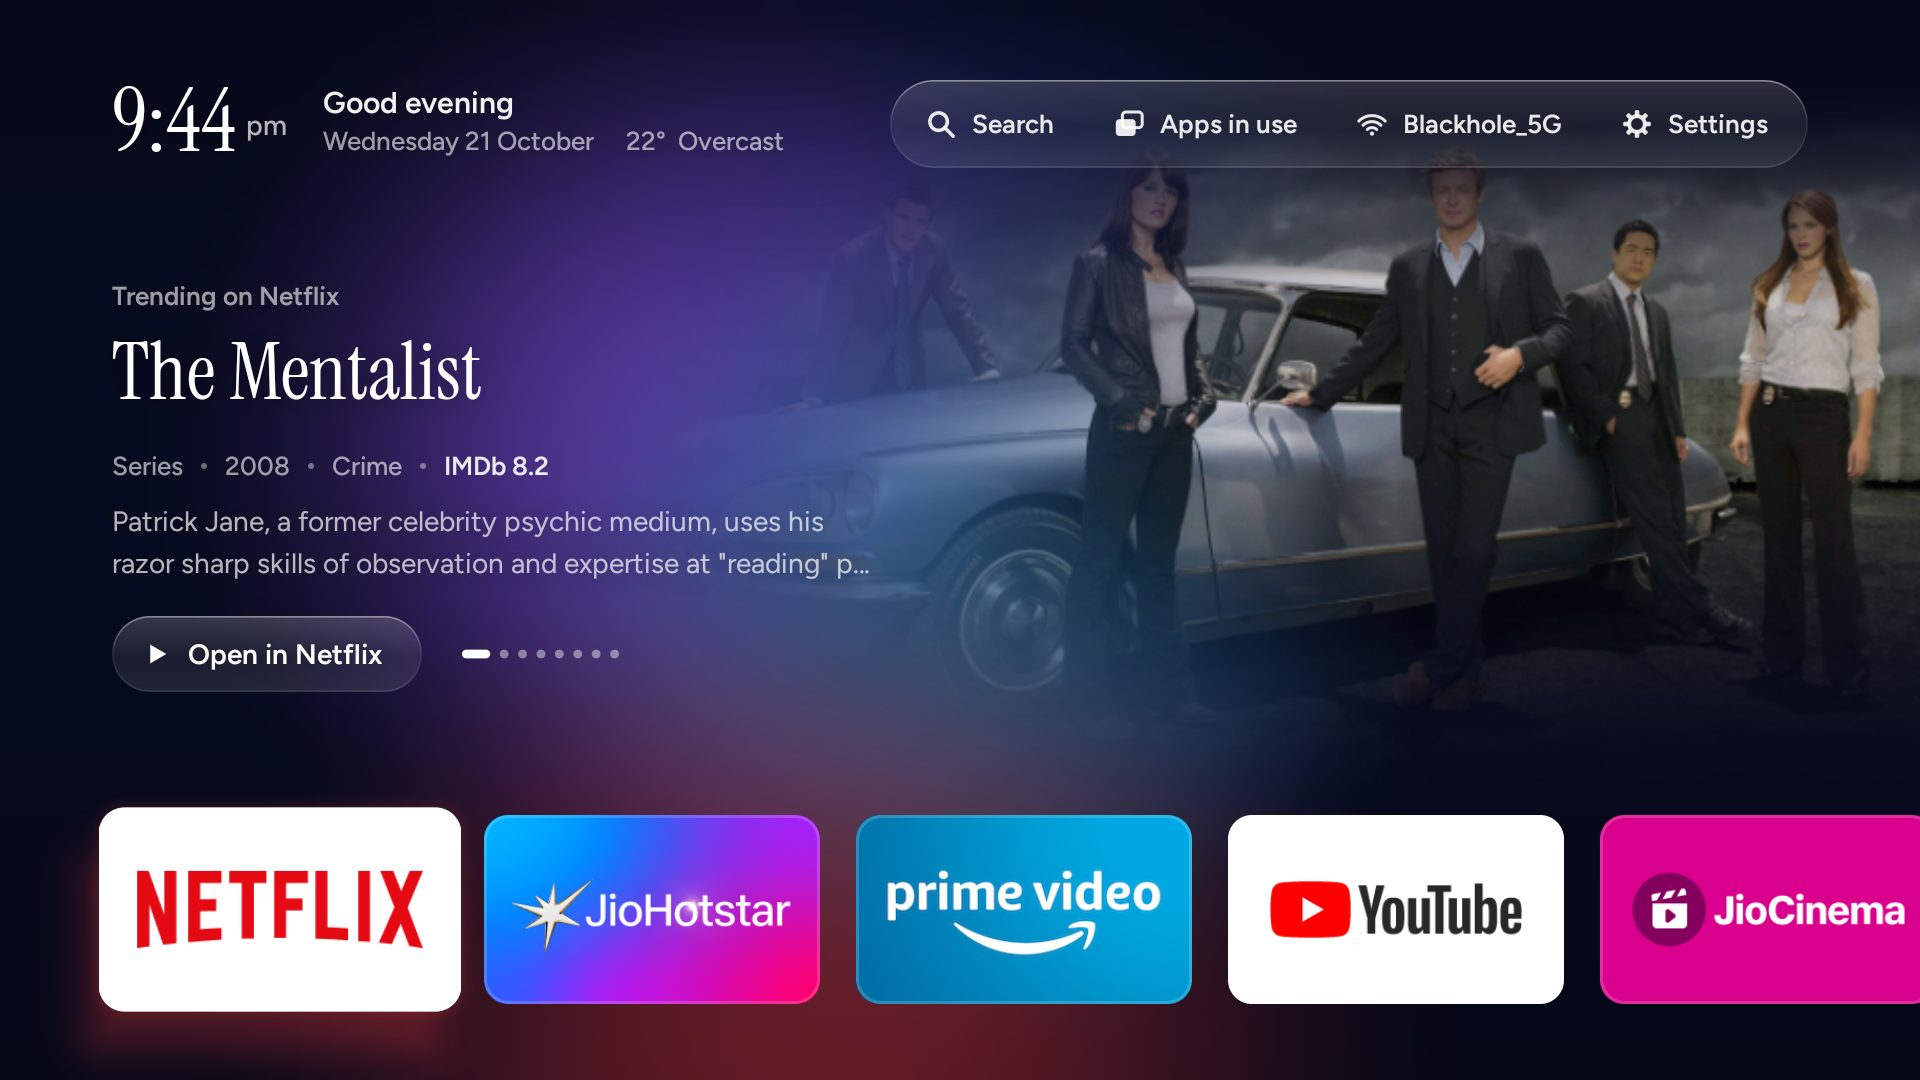
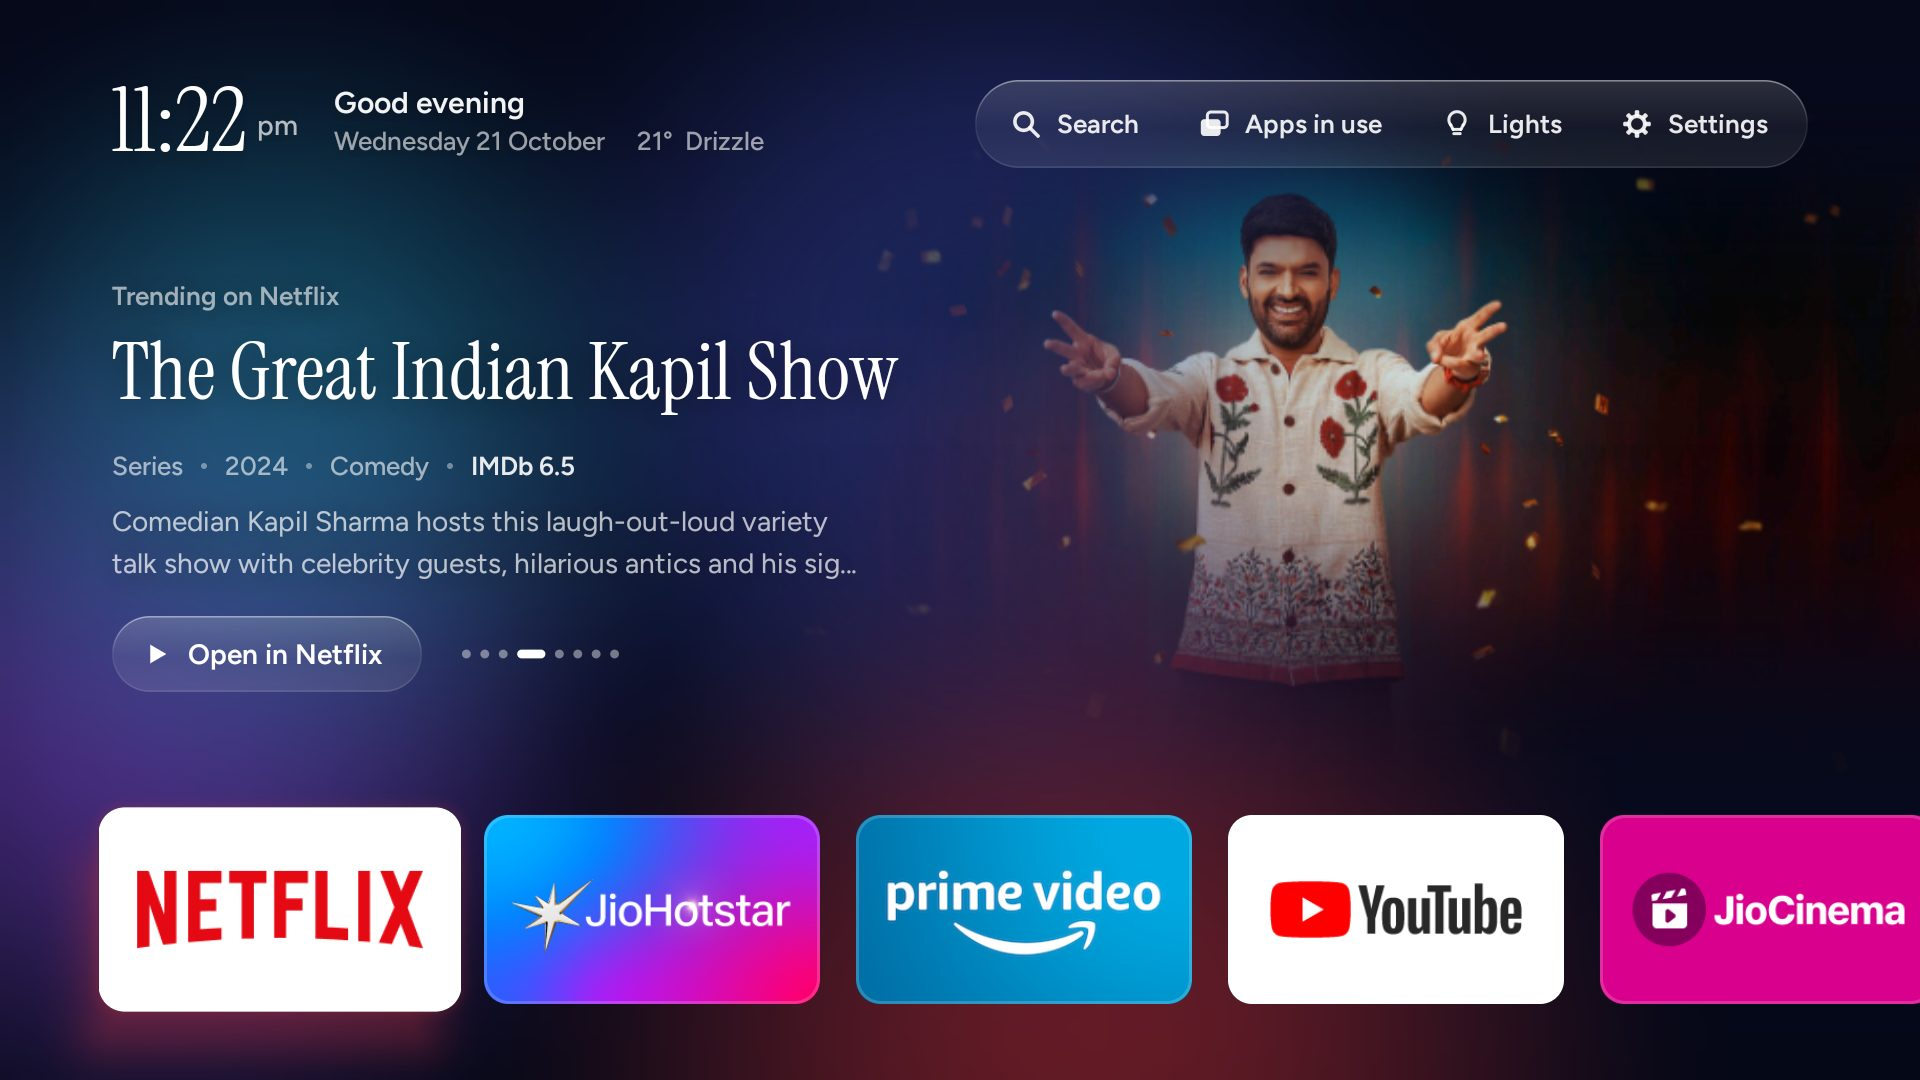
README: a proper header, and a hero shot without the Wi-Fi name
The icon sat centred above a plain left-aligned heading with GitHub's
rule under it. The top is now one header image: the glass flame, the
wordmark, the tagline in two lines and the platforms, on a rounded
night-sky card that sits on GitHub's light and dark themes alike
(export.py renders it with the other brand images).

The hero screenshot still showed the network's name in the top bar;
it's retaken with the current labelled bar (Search, Apps in use,
Lights, Settings).

diff --git a/brand/export.py b/brand/export.py
@@ -80,3 +80,15 @@ social = (f'<div style="position:absolute;inset:0;background:radial-gradient(60%
           '<div style="font-family:FT;font-weight:500;font-size:32px;line-height:1.35;margin-top:22px;color:rgba(255,255,255,.86)">A faster home for your Fire TV, and a remote on your phone.</div>'
           '<div style="font-family:FT;font-weight:600;font-size:26px;margin-top:28px;color:#A9B8FF">github.com/bhaweshverma50/fireglass</div></div>')
 render(social, 1280, 640, DOCS / "social-preview.png", transparent=False)
+
+# README header: a rounded night-sky card (transparent corners, so it sits on GitHub's light and dark themes)
+pill = ('<span style="display:inline-flex;align-items:center;height:56px;padding:0 26px;border-radius:28px;'
+        'background:rgba(255,255,255,.10);border:2px solid rgba(169,184,255,.28);font-family:FT;font-weight:600;font-size:26px;color:#E6E9FF">{}</span>')
+header = (f'<div style="position:absolute;inset:0;border-radius:48px;overflow:hidden;background:radial-gradient(55% 90% at 8% 0%,#2E3A8C,transparent 70%),radial-gradient(50% 90% at 100% 45%,rgba(110,63,184,.85),transparent 70%),radial-gradient(45% 80% at 0% 100%,rgba(27,111,138,.7),transparent 70%),#070B1F">'
+          f'<img src="{(BRAND / "fireglass-mark.svg").as_uri()}" style="position:absolute;left:60px;top:40px;width:520px;height:520px">'
+          '<div style="position:absolute;left:600px;right:80px;top:0;bottom:0;display:flex;flex-direction:column;justify-content:center;color:#fff">'
+          '<div style="font-family:IS;font-size:190px;line-height:.95;letter-spacing:-2px">Fireglass</div>'
+          '<div style="font-family:FT;font-weight:500;font-size:36px;line-height:1.35;margin-top:22px;color:rgba(255,255,255,.88);"><div>A fast home screen for the Fire TV Stick,</div><div>and a remote on your phone.</div></div>'
+          '<div style="display:flex;gap:16px;margin-top:38px">' + "".join(pill.format(t) for t in ["Fire TV Stick", "iPhone", "Android", "No root"]) + '</div>'
+          '</div></div>')
+render(header, 1760, 600, DOCS / "readme-header.png")

diff --git a/README.md b/README.md
@@ -1,8 +1,5 @@
-<p align="center"><img src="docs/fireglass-icon.png" width="128" height="128" alt="Fireglass icon: a frosted-glass flame with an ember inside, on a night sky"></p>
+<p align="center"><img src="docs/readme-header.png" width="880" alt="Fireglass: a fast home screen for the Fire TV Stick, and a remote on your phone"></p>
 
-# Fireglass
-
-**A fast, beautiful home screen for the Amazon Fire TV Stick, and a phone app that runs it.**
 Debloat a slow Fire TV over Wi-Fi, replace Amazon's ad-filled home with an Apple TV-style one,
 and control the TV from your phone with an on-device AI assistant. No root, nothing permanent,
 nothing sent to anyone's cloud.
